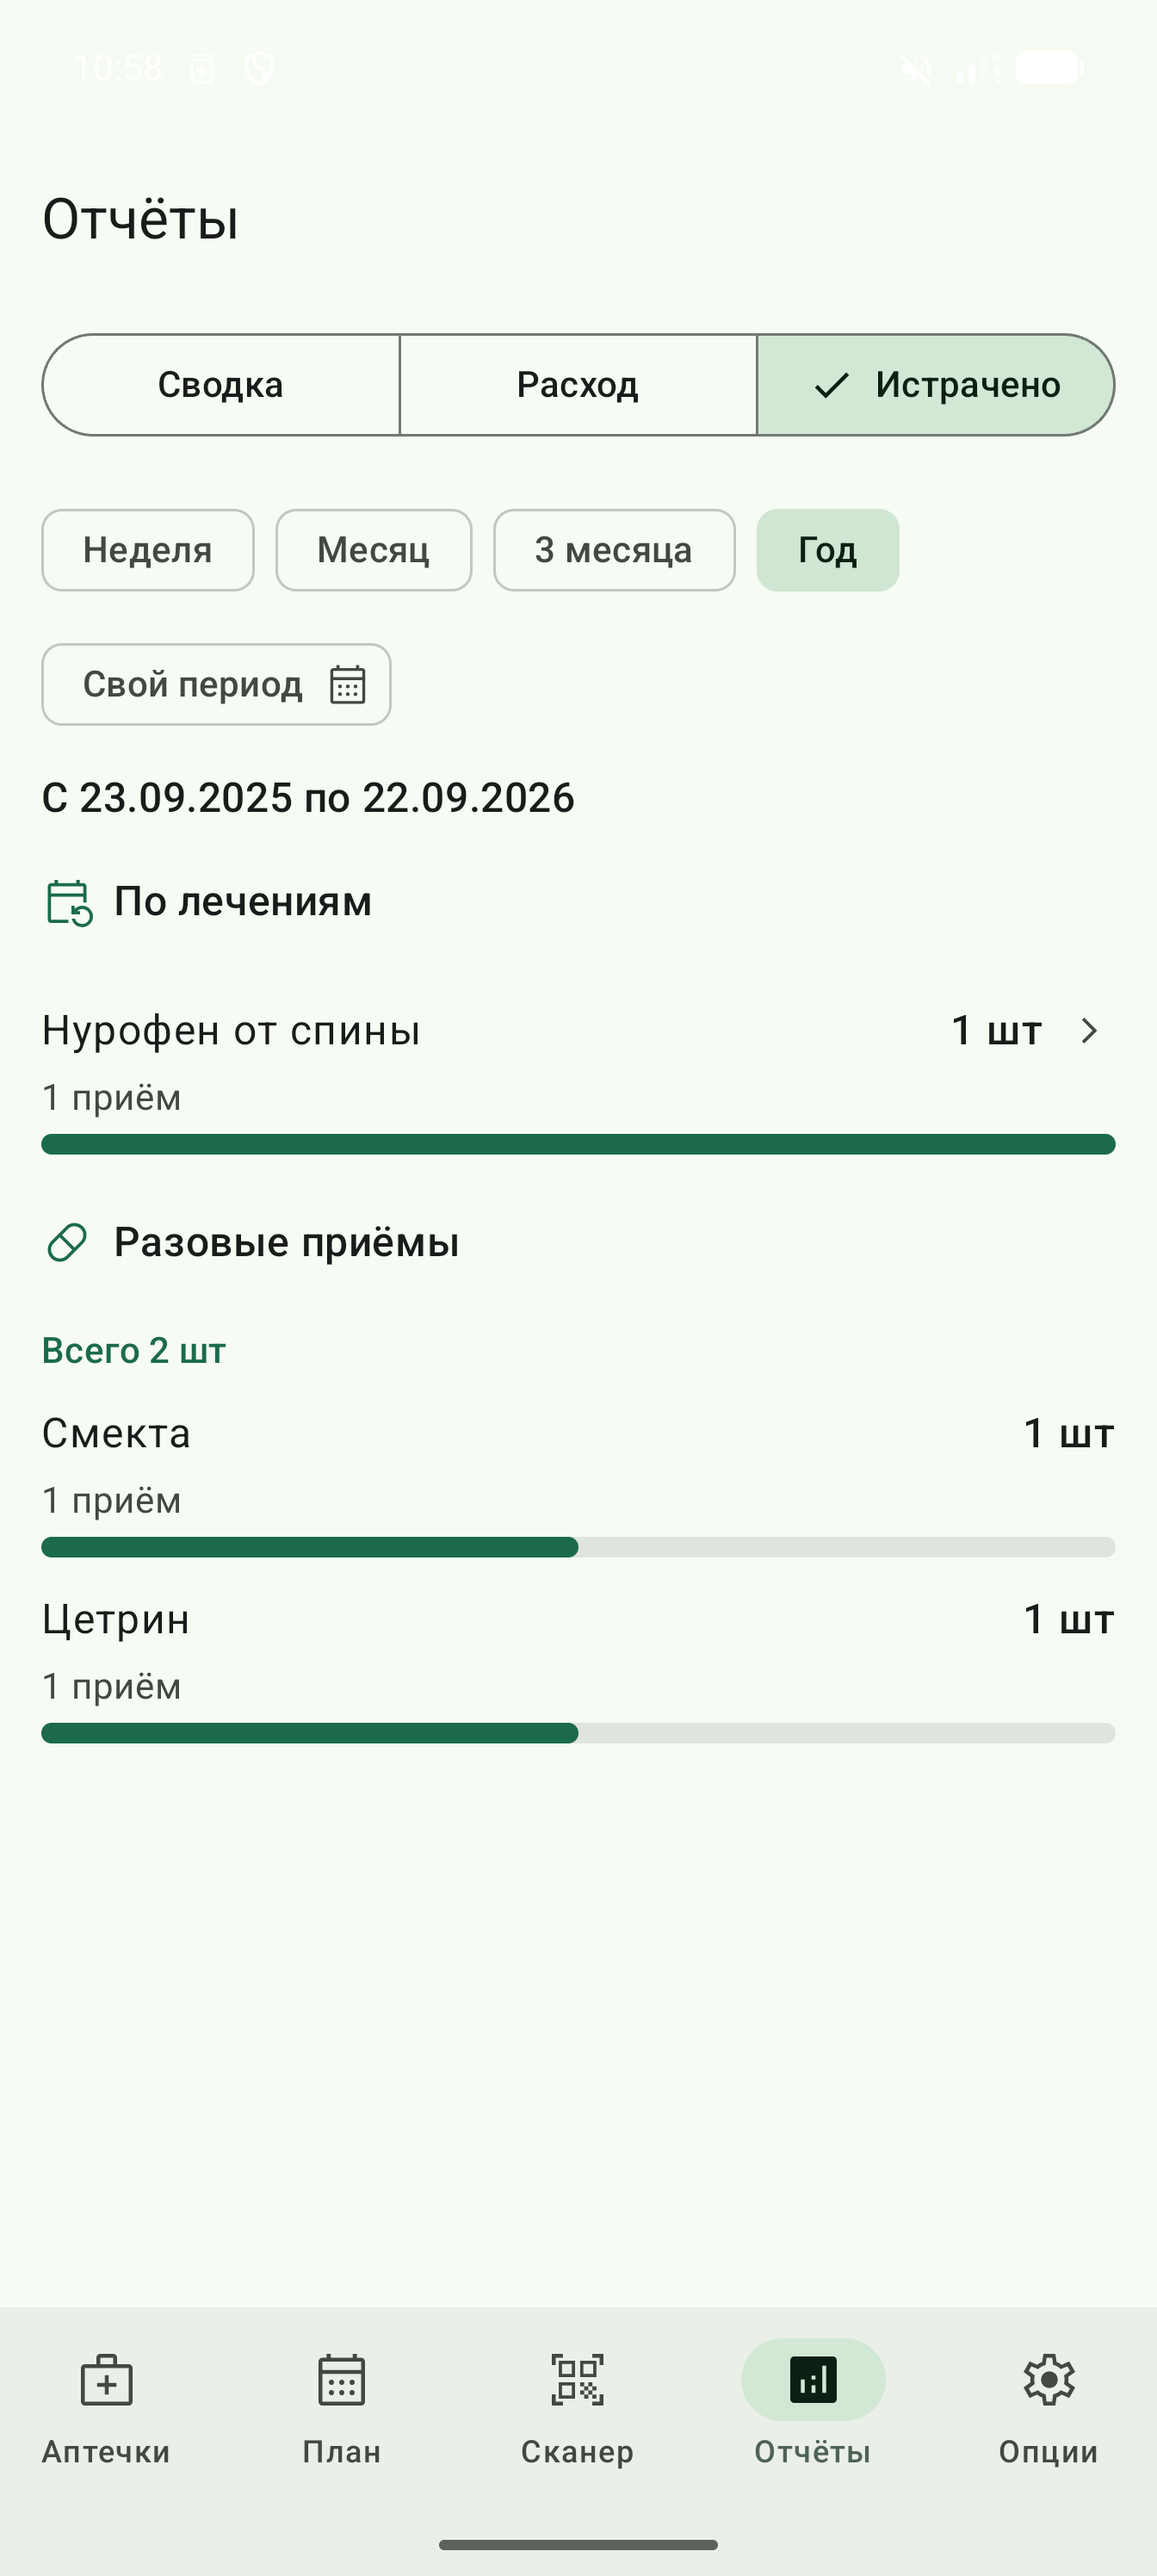
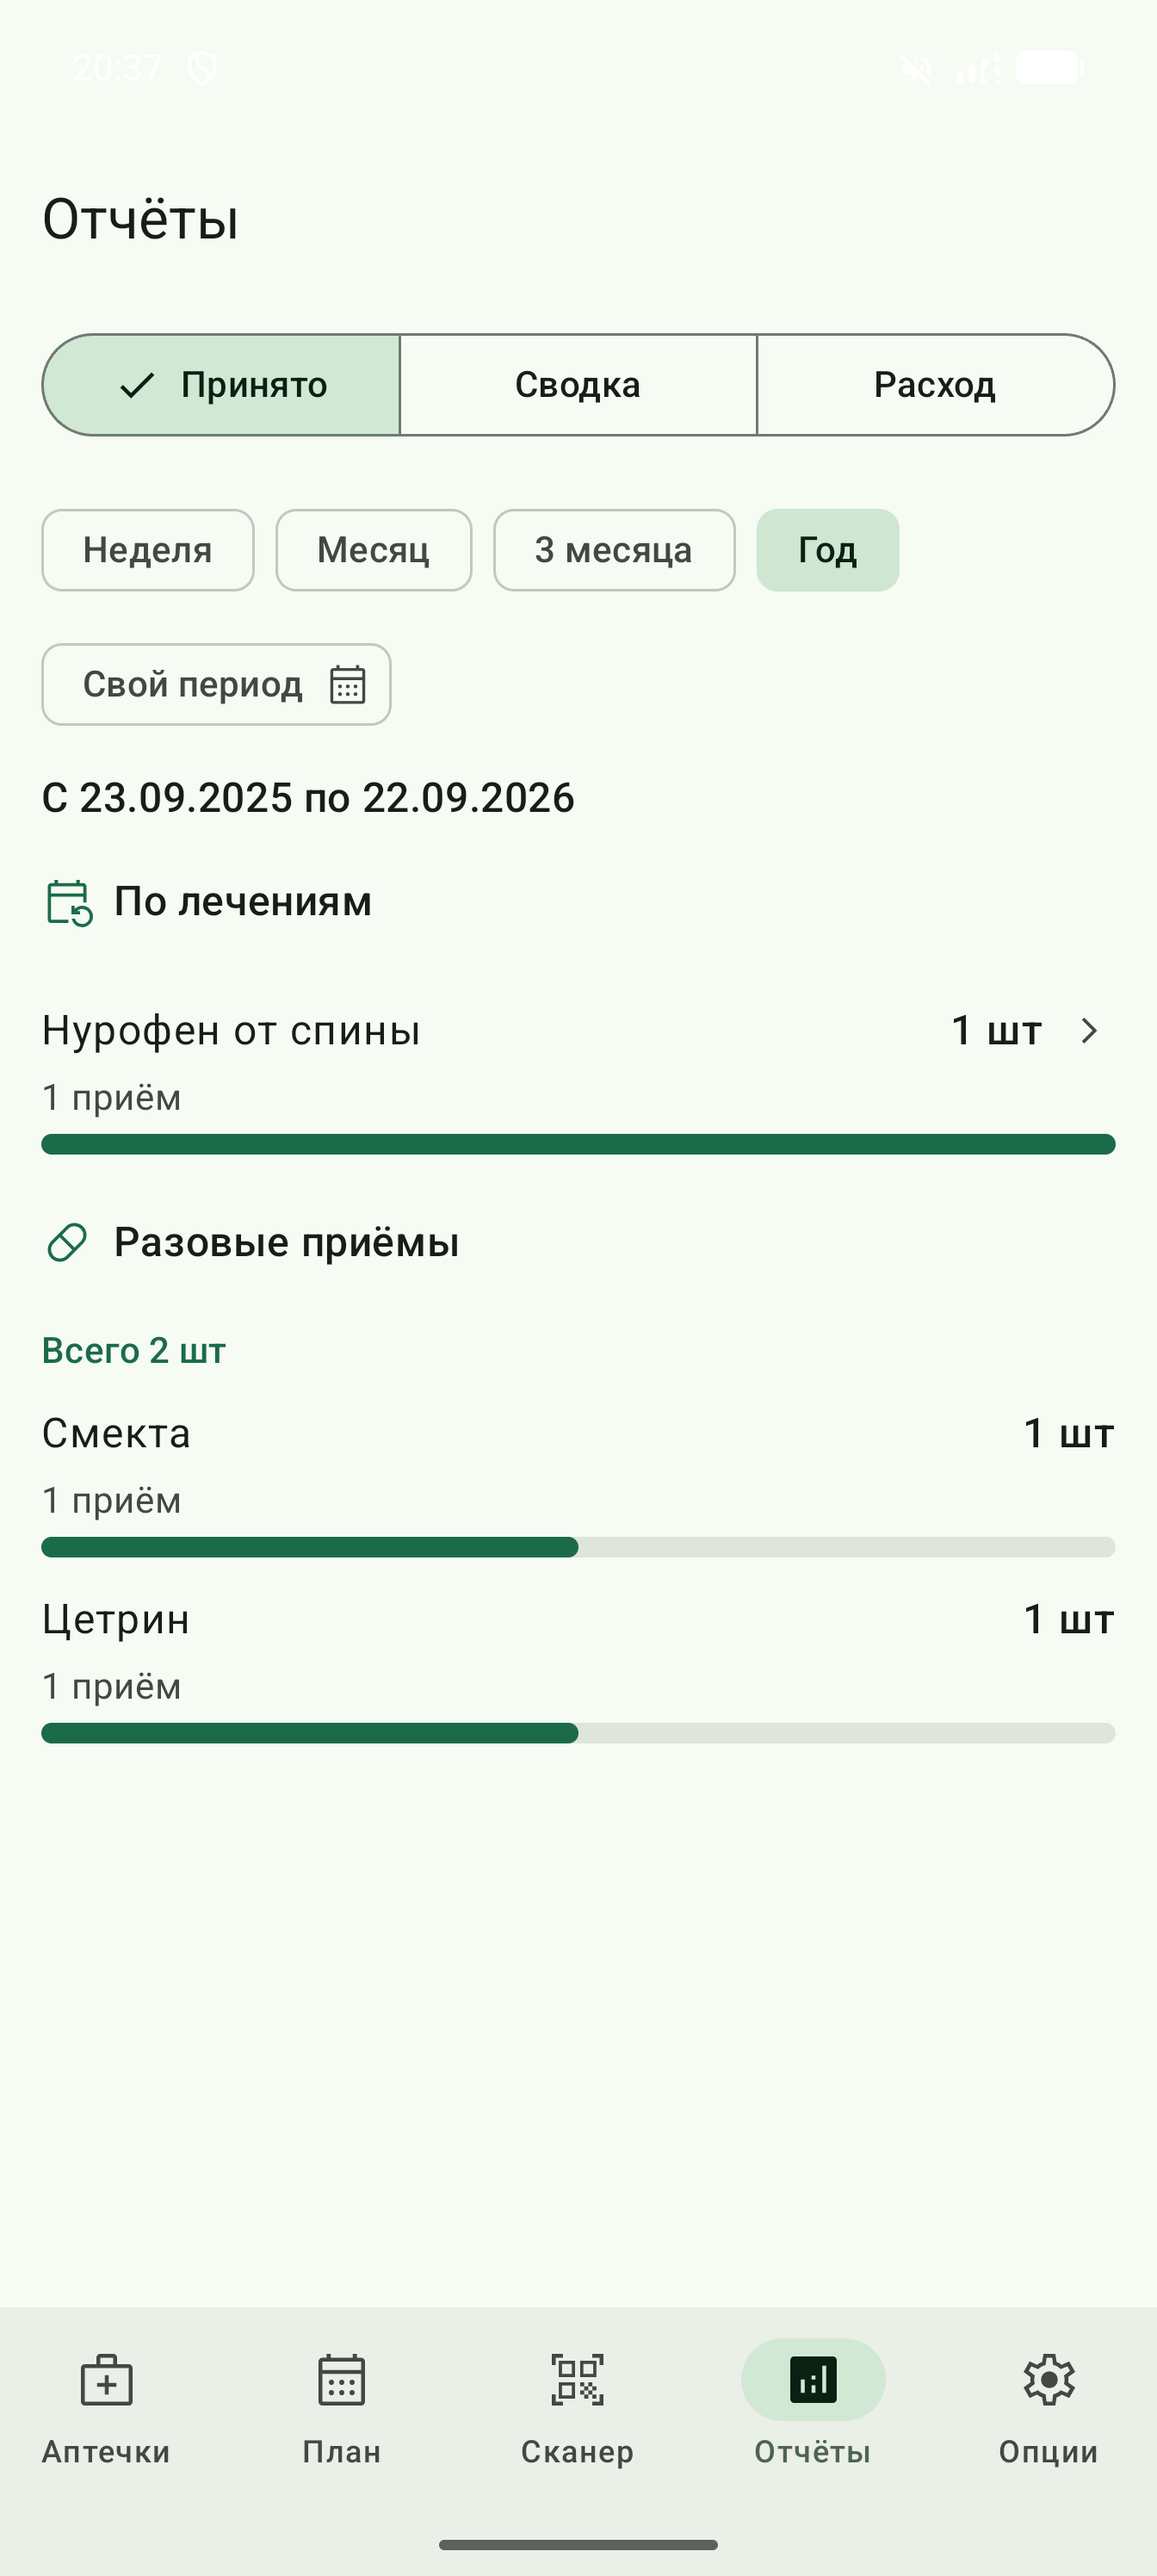
Вкладки отчётов стоят осью времени, а «Истрачено» называется «Принято»
Три вкладки различает время, и прежний их порядок вёл настоящее → будущее → прошлое:
взгляд уходил вперёд и возвращался назад. Теперь строка читается слева направо как ось
времени — «Принято» (что уже принято за период), «Сводка» (что лежит сейчас), «Расход»
(сколько уйдёт до выбранной даты).

«Истрачено» вкладка не заслуживала дважды: она считает приёмы, а не деньги, а деньги
живут в «Сводке» отдельной строкой «Общая цена». По-английски Spent стало Taken.

Вкладка по умолчанию не изменилась: оболочка называет SUMMARY прямо, а сохранённое
состояние держит имя, а не номер, — перестановка его не ломает.

Снимки экрана отчётов пересняты новыми словами.

diff --git a/app/src/androidTest/java/com/kert0n/medapp/ui/report/ReportsScreenTest.kt b/app/src/androidTest/java/com/kert0n/medapp/ui/report/ReportsScreenTest.kt
@@ -134,6 +134,25 @@ class ReportsScreenTest {
         }
     }
 
+    /**
+     * **Вкладки стоят осью времени слева направо**: «Принято» — что уже принято за период,
+     * «Сводка» — что лежит сейчас, «Расход» — сколько уйдёт до выбранной даты. Прежний порядок
+     * вёл настоящее → будущее → прошлое, и взгляд, уйдя вперёд, возвращался назад (решение
+     * владельца). Проверяется положением на экране, а не местом в перечислении: человек читает
+     * строку, а не код.
+     */
+    @Test
+    fun theTabsStandAsAnAxisOfTime() {
+        show(ReportsUiState())
+
+        val order = listOf("Принято", "Сводка", "Расход")
+        assertEquals(order, order.sortedBy { left(it) })
+    }
+
+    /** Где вкладка начинается: порядок читается по положению. */
+    private fun left(text: String): Float =
+        compose.onNodeWithText(text).fetchSemanticsNode().positionInRoot.x
+
     /** Пока чтение не пришло, экран ждёт — и говорит об этом экранному чтецу. */
     @Test
     fun anUnreadReportWaits() {
@@ -159,7 +178,7 @@ class ReportsScreenTest {
         compose.onNodeWithText("Упаковок пока нет").assertIsDisplayed()
         compose.onNodeWithText("Расход").performClick()
         compose.onNodeWithText("Идущих лечений на этот срок нет").assertIsDisplayed()
-        compose.onNodeWithText("Истрачено").performClick()
+        compose.onNodeWithText("Принято").performClick()
         compose.onNodeWithText("За этот период приёмов не было").assertIsDisplayed()
     }
 
@@ -218,7 +237,7 @@ class ReportsScreenTest {
     fun largeFontKeepsEveryChoiceReadable() {
         show(ReportsUiState(spent = ScreenState.Ready(spent)), mode = ReportsMode.SPENT, scale = 1.3f)
 
-        compose.onNodeWithText("Истрачено").assertIsDisplayed()
+        compose.onNodeWithText("Принято").assertIsDisplayed()
         compose.onNodeWithText("3 месяца").assertIsDisplayed()
         compose.onNodeWithText("Свой период").assertIsDisplayed()
     }
@@ -237,7 +256,7 @@ class ReportsScreenTest {
         val restoration = StateRestorationTester(compose)
         restoration.setContent { Screen(ReportsUiState(spent = ScreenState.Ready(spent)), ReportsMode.SUMMARY) }
 
-        compose.onNodeWithText("Истрачено").performClick()
+        compose.onNodeWithText("Принято").performClick()
         compose.onNodeWithText("С 10.02.2027 по 10.03.2027").assertIsDisplayed()
 
         restoration.emulateSavedInstanceStateRestore()

diff --git a/app/src/main/java/com/kert0n/medapp/ui/report/ReportsScreen.kt b/app/src/main/java/com/kert0n/medapp/ui/report/ReportsScreen.kt
@@ -27,7 +27,16 @@ import java.time.LocalDate
 import kotlin.uuid.Uuid
 
 /** Три отчёта места «Отчёты» — три его состояния (PLAN H3 «Набор аналитики», C1). */
-enum class ReportsMode { SUMMARY, FUTURE, SPENT }
+/**
+ * Три вкладки различает **время**, и порядок у них — ось времени слева направо: «Принято» —
+ * что уже принято за период, «Сводка» — что лежит сейчас, «Расход» — сколько уйдёт до выбранной
+ * даты. Прежний порядок шёл настоящее → будущее → прошлое, и взгляд, уйдя вперёд, возвращался
+ * назад (решение владельца).
+ *
+ * Порядок вкладок задаётся здесь: экран рисует их перечислением. Вкладка по умолчанию от порядка
+ * не зависит — оболочка называет `SUMMARY` прямо, а сохранённое состояние держит имя, а не номер.
+ */
+enum class ReportsMode { SPENT, SUMMARY, FUTURE }
 
 /**
  * Место «Отчёты» — личная статистика человека (экран 26).

diff --git a/app/src/androidTest/java/com/kert0n/medapp/app/navigation/ReportsStoryTest.kt b/app/src/androidTest/java/com/kert0n/medapp/app/navigation/ReportsStoryTest.kt
@@ -191,7 +191,7 @@ class ReportsStoryTest {
      * выпитыми: запись эпизода вечна, и отчёт читает её, а не план.
      */
     private fun spentShowsTheFinishedTreatmentAndTheOneOffIntakes() {
-        compose.onNodeWithText("Истрачено").performClick()
+        compose.onNodeWithText("Принято").performClick()
         see("По лечениям")
         see("Спина, две недели")
         see("3 приёма")
@@ -204,7 +204,7 @@ class ReportsStoryTest {
         compose.onNode(hasClickAction() and hasText("Спина, две недели", substring = true)).performClick()
         see("Завершён")
         back()
-        see("Истрачено")
+        see("Принято")
     }
 
     /** У законченного лечения будущего нет: в расходе стоит только идущий сироп. */

diff --git a/app/src/androidTest/java/com/kert0n/medapp/tour/ScreenTour.kt b/app/src/androidTest/java/com/kert0n/medapp/tour/ScreenTour.kt
@@ -437,7 +437,7 @@ class ReportsTour : ScreenTour() {
         tap("Расход")
         see("если все приёмы состоятся")
         snap("26-reports/future")
-        tap("Истрачено")
+        tap("Принято")
         see("По лечениям")
         snap("26-reports/spent")
         tap("Год")

diff --git a/app/src/androidTest/java/com/kert0n/medapp/tour/DemoFilm.kt b/app/src/androidTest/java/com/kert0n/medapp/tour/DemoFilm.kt
@@ -368,7 +368,7 @@ class DemoFilm : ScreenTour() {
         beat(2.5)
         press("Расход")
         beat(2.5)
-        press("Истрачено")
+        press("Принято")
         beat(2.5)
 
         goTo("Сканер")
